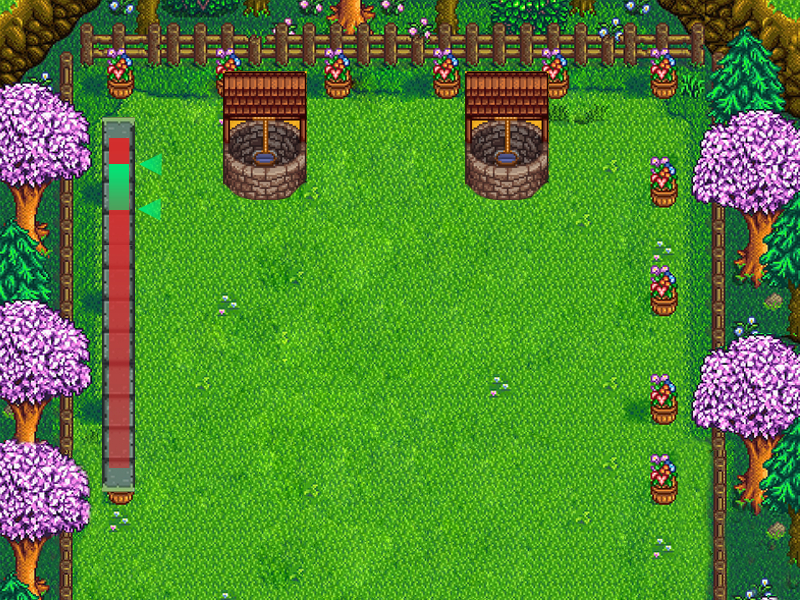
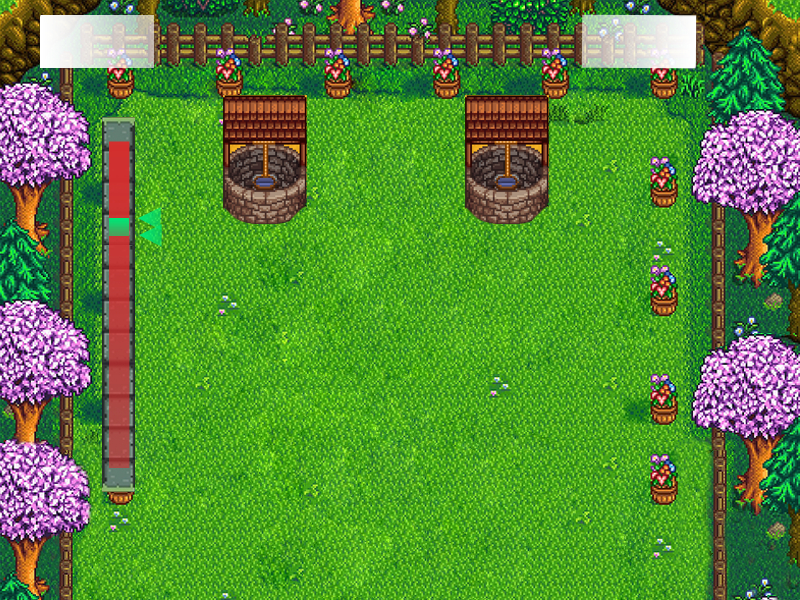
finish game1 design

diff --git a/src/main/java/org/academiadecodigo/hackaton/client/controller/ControllerGame1.java b/src/main/java/org/academiadecodigo/hackaton/client/controller/ControllerGame1.java
@@ -1,16 +1,21 @@
 package org.academiadecodigo.hackaton.client.controller;
 
+import javafx.animation.PauseTransition;
+import javafx.animation.SequentialTransition;
 import javafx.animation.TranslateTransition;
 import javafx.collections.ObservableList;
 import javafx.fxml.FXML;
 import javafx.fxml.Initializable;
+import javafx.geometry.Insets;
 import javafx.scene.Node;
 import javafx.scene.control.ProgressBar;
 import javafx.scene.image.Image;
 import javafx.scene.image.ImageView;
 import javafx.scene.input.KeyEvent;
+import javafx.scene.layout.BorderPane;
 import javafx.scene.layout.GridPane;
 import javafx.scene.layout.Pane;
+import javafx.scene.layout.VBox;
 import javafx.scene.text.Text;
 import javafx.util.Duration;
 import org.academiadecodigo.hackaton.client.Session;
@@ -47,7 +52,10 @@ public class ControllerGame1 extends Controller implements Initializable {
     @FXML
     private ProgressBar progressBar;
 
-    private int coins;
+    @FXML
+    private VBox VBox_spaceBar;
+
+    private int coins = 0;
     private boolean runLevel;
 
     //Player list
@@ -64,6 +72,7 @@ public class ControllerGame1 extends Controller implements Initializable {
         gameService = ServiceLocator.getInstance().get(GameService.class);
         gameService.setController(this);
 
+        coinsValue.setText(String.valueOf(coins));
 
         Thread thread = new Thread(new ProgressBarChanger());
         thread.start();
@@ -132,9 +141,11 @@ public class ControllerGame1 extends Controller implements Initializable {
         switch (event.getCode()) {
 
             case SPACE:
+                VBox_spaceBar.setVisible(false);
                 coinAnimation(progressBar.getProgress(), 1);
                 System.out.println(progressBar.getProgress());
-                if (progressBar.getProgress() >= 0.7 && progressBar.getProgress() <= 0.9) {
+                if (progressBar.getProgress() >= 0.7 && progressBar.getProgress() <= 0.8) {
+                    showMessage("hit", 1);
                     coins++;
                 }
                 coinsValue.setText(String.valueOf(coins));
@@ -143,6 +154,25 @@ public class ControllerGame1 extends Controller implements Initializable {
 
 
         }
+    }
+
+    private void showMessage(String message, int player) {
+        BorderPane messagePane = new BorderPane(new Text(message));
+        messagePane.setPadding(new Insets(5));
+        messagePane.setId("ModalMessage");
+        messagePane.setMaxHeight(20);
+        gridPane.add(messagePane, gridPane.getColumnIndex(players.get(player)), gridPane.getRowIndex(players.get(player)));
+        messagePane.setStyle("-fx-background-color: lawngreen;-fx-opacity: 0.8");
+        messagePane.setTranslateY(messagePane.getLayoutY() + 100);
+        messagePane.setTranslateX(messagePane.getLayoutX() + 50);
+        PauseTransition animationPause = new PauseTransition(Duration.millis(500));
+        PauseTransition delay = new PauseTransition(Duration.millis(1000));
+        TranslateTransition appearAnimation = new TranslateTransition(Duration.millis(300), messagePane);
+        appearAnimation.setByY(-130);
+        TranslateTransition dissapearAnimation = new TranslateTransition(Duration.millis(300), messagePane);
+        dissapearAnimation.setByY(100);
+        SequentialTransition seqTransition = new SequentialTransition(delay,appearAnimation, animationPause, dissapearAnimation);
+        seqTransition.play();
     }
 
     private class ProgressBarChanger implements Runnable {

diff --git a/src/main/java/org/academiadecodigo/hackaton/client/service/game/GameService1.java b/src/main/java/org/academiadecodigo/hackaton/client/service/game/GameService1.java
@@ -31,7 +31,7 @@ public class GameService1 implements GameService {
 
     @Override
     public void processMsg(Type type, String content) {
-
+        System.out.println("content" + content);
         switch (type){
 
             case COMUNICATION_LVL1:
